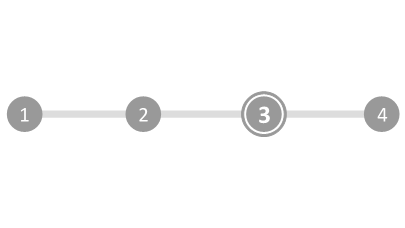
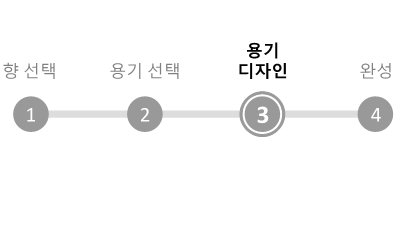
Feat: 향수 제작 페이지 기능 추가
1. step확인 이미지 변경
2. custom_perfume_note.js 코드 리펙토링
3. 향수 상세페이지에서 향 데이터,향수이름 url로 전송
4. 향수 제작페이지(향) url에 담긴 향 데이터 가져와서 띄워주기
5. 향수 제작페이지(용기) 에러처리 조건 변경(세션스토리지의 길이 ->
   세션스토리지에 향 존재여부)

diff --git a/static/js/custom_perfume_note.js b/static/js/custom_perfume_note.js
@@ -21,83 +21,42 @@ async function handleCategory() {
     }).then(result => {
         const response_json = result;
 
-        
-        document.getElementById("tab_menu_01").innerText = response_json['note_category'][0]['kor_name']
-        document.getElementById("tab_menu_02").innerText = response_json['note_category'][1]['kor_name']
-        document.getElementById("tab_menu_03").innerText = response_json['note_category'][2]['kor_name']
-        document.getElementById("tab_menu_04").innerText = response_json['note_category'][3]['kor_name']
-        document.getElementById("tab_menu_05").innerText = response_json['note_category'][4]['kor_name']
-        document.getElementById("tab_menu_06").innerText = response_json['note_category'][5]['kor_name']
-        document.getElementById("tab_menu_07").innerText = response_json['note_category'][6]['kor_name']
-        document.getElementById("tab_menu_08").innerText = response_json['note_category'][7]['kor_name']
-        document.getElementById("tab_menu_09").innerText = response_json['note_category'][8]['kor_name']
-        document.getElementById("tab_menu_010").innerText = response_json['note_category'][9]['kor_name']
-        document.getElementById("tab_menu_011").innerText = response_json['note_category'][10]['kor_name']
-        document.getElementById("tab_menu_012").innerText = response_json['note_category'][11]['kor_name']
-        
-        
-        var category1 = response_json['notes'].filter(function(item){
-            return item.note_category == '1'
-        });
-        var category2 = response_json['notes'].filter(function(item){
-            return item.note_category == '2'
-        });
-        var category3 = response_json['notes'].filter(function(item){
-            return item.note_category == '3'
-        });
-        var category4 = response_json['notes'].filter(function(item){
-            return item.note_category == '4'
-        });
-        var category5 = response_json['notes'].filter(function(item){
-            return item.note_category == '5'
-        });
-        var category6 = response_json['notes'].filter(function(item){
-            return item.note_category == '6'
-        });
-        var category7 = response_json['notes'].filter(function(item){
-            return item.note_category == '7'
-        });
-        var category8 = response_json['notes'].filter(function(item){
-            return item.note_category == '8'
-        });
-        var category9 = response_json['notes'].filter(function(item){
-            return item.note_category == '9'
-        });
-        var category10 = response_json['notes'].filter(function(item){
-            return item.note_category == '10'
-        });
-        var category11 = response_json['notes'].filter(function(item){
-            return item.note_category == '11'
-        });
-        var category12 = response_json['notes'].filter(function(item){
-            return item.note_category == '12'
-        });
+        // 비슷한 향수 만들기
+        if (location.href.split('?')[1] != null){
 
+            // url로 전송된 향 id값
+            var url_data = location.href.split('?')[1].split(',')
 
-        let note_list_1 = document.getElementById("tab_01").querySelector(".row")
-        append_note_list(category1,note_list_1)
-        let note_list_2 = document.getElementById("tab_02").querySelector(".row")
-        append_note_list(category2,note_list_2)
-        let note_list_3 = document.getElementById("tab_03").querySelector(".row")
-        append_note_list(category3,note_list_3)
-        let note_list_4 = document.getElementById("tab_04").querySelector(".row")
-        append_note_list(category4,note_list_4)
-        let note_list_5 = document.getElementById("tab_05").querySelector(".row")
-        append_note_list(category5,note_list_5)
-        let note_list_6 = document.getElementById("tab_06").querySelector(".row")
-        append_note_list(category6,note_list_6)
-        let note_list_7 = document.getElementById("tab_07").querySelector(".row")
-        append_note_list(category7,note_list_7)
-        let note_list_8 = document.getElementById("tab_08").querySelector(".row")
-        append_note_list(category8,note_list_8)
-        let note_list_9 = document.getElementById("tab_09").querySelector(".row")
-        append_note_list(category9,note_list_9)
-        let note_list_10 = document.getElementById("tab_010").querySelector(".row")
-        append_note_list(category10,note_list_10)
-        let note_list_11 = document.getElementById("tab_011").querySelector(".row")
-        append_note_list(category11,note_list_11)
-        let note_list_12 = document.getElementById("tab_012").querySelector(".row")
-        append_note_list(category12,note_list_12)
+            var note_data = response_json['notes'].filter(function(item){
+                return item
+            });
+
+            // url로 전송된 추천 향수 이름
+            document.getElementById('recommend_name').innerText = location.href.split('?')[2].replace(/%20/g, ' ')+' 향수와 같은 향';
+
+            // 추천 향 리스트
+            let recommend_note_list = document.getElementById("card")
+            append_recommend_note_list(note_data, url_data, recommend_note_list)
+            
+        }
+
+        // 카테고리
+        for(let i = 0; i<12; i++){
+            document.getElementById(`tab_menu_0${i+1}`).innerText = response_json['note_category'][i]['kor_name']
+        }
+
+        // 카테고리 별 향 나누기
+        for(let i = 1; i<13; i++){
+            window['category'+i] = response_json['notes'].filter(function(item){
+                return item.note_category == i
+            });
+        }
+
+        // 카테고리 탭 선택시 향 띄우기
+        for(let i = 1; i<13; i++){
+            window['note_list_'+i] = document.getElementById(`tab_0${i}`).querySelector(".row")
+            append_note_list(window['category'+i],window['note_list_'+i])
+        };
         
         // 향1 이미지
         $.each(response_json['notes'],function(idx,row){
@@ -132,6 +91,34 @@ async function handleCategory() {
     
     }).catch(error => {
         console.warn(error.message)
+    });
+}
+
+// 추천 향 리스트
+function append_recommend_note_list(dataset, url_data, element) {
+    var recommend = []
+    for (let i = 0; i < 973; i++) {
+        for (let j = 0; j < url_data.length; j++) {
+            if (String(dataset[i]['id']) == url_data[j]) {
+                recommend.push(dataset[i])
+            }
+        }
+    }
+    element.innerHTML = '';
+    recommend.forEach(data => {
+        let new_item = document.createElement('div');
+        new_item.className = 'card';
+        new_item.innerHTML = `
+            <div class="image">
+                <img aria-hidden="false" draggable="false" loading="lazy" src="${data['image']}">
+            </div>
+            <div class="title">
+                <div class="name">${data['kor_name']}</div>
+                <div class="keyword">#상큼함</div>
+            </div>
+            <button class="circle_pick" id="${data['id']}" onclick="handlePick(this.id)">+
+        `;
+        element.append(new_item);
     });
 }
 

diff --git a/custom_perfume_note.html b/custom_perfume_note.html
@@ -68,22 +68,32 @@
             <div class="swiper main_banner">
                 <!-- Additional required wrapper -->
                 <div class="swiper-wrapper">
-                  <!-- Slides -->
+                    <!-- Slides -->
                     <div class="swiper-slide">
                         <img src="/static/images/step_1.png">
                         <h1>Pick Your Fragrance!</h1>
                         <p>3가지 향을 선택하여 나만의 향수를 만들어 보세요</p>
                     </div>
                     <div class="swiper-slide2">
-                        <div class="circle"><div class="circle_plus" id="note01">+</div></div>
-                        <div class="circle"><div class="circle_plus" id="note02">+</div></div>
-                        <div class="circle"><div class="circle_plus" id="note03">+</div></div>
+                        <div class="circle">
+                            <div class="circle_plus" id="note01">+</div>
+                        </div>
+                        <div class="circle">
+                            <div class="circle_plus" id="note02">+</div>
+                        </div>
+                        <div class="circle">
+                            <div class="circle_plus" id="note03">+</div>
+                        </div>
                         <p></p>
-                        <button class="next_button" id="next_button" onclick="handleNext()" data-bs-toggle="modal" data-bs-target="#exampleModal">나만의 향수 만들기</button>
+                        <button class="next_button" id="next_button" onclick="handleNext()" data-bs-toggle="modal"
+                            data-bs-target="#exampleModal">나만의 향수 만들기</button>
                     </div>
-                    
+                    <div class="recommend_name" id="recommend_name">
+                    </div>
+                    <div class="swiper-slide3" id="card">
+                    </div>
                 </div>
-              </div>
+            </div>
         </section>
         <section style="margin:auto; width:1400px;">
             <ul class="category">

diff --git a/static/css/custom_perfume_note.css b/static/css/custom_perfume_note.css
@@ -25,16 +25,10 @@
     align-content: center;
     flex-wrap: wrap;
     text-align: center;
-    
-    /* position: sticky;
-    top: 10vh;
-    left: 60vh;
-    opacity: 0.9;
-    backdrop-filter: blur(30px); */
 
 }
 .swiper.main_banner .swiper-slide img{
-    width: 250px;
+    width: 300px;
 }
 .swiper.main_banner .swiper-slide h1{
     width: 100%;
@@ -90,6 +84,60 @@
     color: #ffffff;
     font-size: 13px;
 }
+.swiper.main_banner .recommend_name{
+    display: flex;
+    width: 80%;
+    margin: 2vh auto 0 auto;
+    font-size: 25px;
+}
+.swiper.main_banner .swiper-slide3{
+    display: flex;
+    margin: 2vh auto 0 auto;
+    width: 80%;
+    overflow-x: scroll;
+}
+.swiper.main_banner .swiper-slide3::-webkit-scrollbar {
+    display: none;
+}
+.swiper.main_banner .swiper-slide3 .card{
+    display: flex;
+    flex-direction: row;
+    align-items: center;
+    min-width: 200px;
+    height: 80px;
+    border-radius: 0;
+    border-color: #999;
+    margin: 0 5px 0 5px;
+}
+.swiper.main_banner .swiper-slide3 .card .image{
+    display: flex;
+    align-items: center;
+    justify-content: center;
+
+    width: 50px;
+    height: 50px;
+    margin: 0 5px 0 5px;
+}
+.swiper.main_banner .swiper-slide3 .card .image img{
+    width: 50px;
+    height: 50px;
+}
+.swiper.main_banner .swiper-slide3 .card .title{
+
+    width: 100px;
+    height: 50px;
+}
+.swiper.main_banner .swiper-slide3 .card .title .name{
+    font-size: 18px;
+}
+.swiper.main_banner .swiper-slide3 .card .title .keyword{
+    margin-top: 10px;
+    font-size: 10px;
+    color: #999;
+}
+.swiper.main_banner .swiper-slide3 .card .circle_pick{
+    text-align: center;
+}
 .title{
     font-size: 15px;
     word-break: normal;
@@ -118,7 +166,7 @@
 
 /* 카테고리 탭 */
 .category{
-    margin-top: 15vh;
+    margin-top: 5vh;
     display: flex;
     flex-direction: row;
     justify-content: space-between;

diff --git a/static/js/perfume.js b/static/js/perfume.js
@@ -30,9 +30,37 @@ async function handlePerfumeInfo(){
     })
     .then(result => {
         const response_json = result;
+        const notes_id = []
+
         perfume_info(response_json);  // 1. 기본 향수제품정보
         perfume_detail_tab(response_json); // 2. 제품정보 탭
         perfume_review_tab(response_json); // 3. 리뷰 탭
+        
+        // 향 id값 리스트에 담기
+        for(let i = 0; i<response_json['top_notes'].length; i++){
+            if(response_json['top_notes'][i]['id']<=973){
+                notes_id.push(response_json['top_notes'][i]['id'])
+            } 
+        }
+        for(let i = 0; i<response_json['heart_notes'].length; i++){
+            if(response_json['heart_notes'][i]['id']<=973){
+                notes_id.push(response_json['heart_notes'][i]['id'])
+            } 
+        }
+        for(let i = 0; i<response_json['base_notes'].length; i++){
+            if(response_json['base_notes'][i]['id']<=973){
+                notes_id.push(response_json['base_notes'][i]['id'])
+            } 
+        }
+        for(let i = 0; i<response_json['none_notes'].length; i++){
+            if(response_json['none_notes'][i]['id']<=973){
+                notes_id.push(response_json['none_notes'][i]['id'])
+            } 
+        }
+        // url로 향 id값 전송
+        document.getElementById("custom_perfume").addEventListener('click', () => {
+            location.href = `custom_perfume_note.html?${notes_id}?${response_json['title']}`;
+        })
     })
 }
 

diff --git a/perfume.html b/perfume.html
@@ -109,8 +109,10 @@
                                     <a class="btn btn_default btn_create_review w-100" href="/create_review.html">
                                         리뷰 작성하기
                                     </a>
+                                    <a class="btn btn_default btn_create_custom_perfume" id="custom_perfume">
+                                        비슷한 향수 만들기
+                                    </a>
                                 </div>
-                                
                             </div>
                         </div>
                     </div>

diff --git a/static/js/custom_perfume_package.js b/static/js/custom_perfume_package.js
@@ -4,7 +4,7 @@ document.addEventListener("DOMContentLoaded", function () {
 
 // 용기 카테고리 , 선택한 용기 띄우기
 async function handleCategory() {
-    if(sessionStorage.length==1){
+    if(JSON.parse(sessionStorage.getItem("note01"))==null&&JSON.parse(sessionStorage.getItem("note02"))==null&&JSON.parse(sessionStorage.getItem("note03"))==null){
         alert("향을 선택하셔야 됩니다!")
         location.href="/custom_perfume_note.html"
     }else{

diff --git a/static/css/custom_perfume_package.css b/static/css/custom_perfume_package.css
@@ -25,16 +25,10 @@
     align-content: center;
     flex-wrap: wrap;
     text-align: center;
-    
-    /* position: sticky;
-    top: 10vh;
-    left: 60vh;
-    opacity: 0.9;
-    backdrop-filter: blur(30px); */
 
 }
 .swiper.main_banner .swiper-slide img{
-    width: 250px;
+    width: 300px;
 }
 .swiper.main_banner .swiper-slide h1{
     width: 100%;

diff --git a/static/css/perfume.css b/static/css/perfume.css
@@ -65,7 +65,9 @@ hr{
     color: var(--main-red);
     cursor: pointer;
 }
-
+.sec_perfume_detail .btn_create_group .btn_create_custom_perfume{
+    margin-left: 10px;
+}
 
 /* ******** */
 /* tab_menu */

diff --git a/static/css/custom_perfume_complete.css b/static/css/custom_perfume_complete.css
@@ -15,7 +15,7 @@
 
 }
 .swiper.main_banner .swiper-slide img{
-    width: 250px;
+    width: 300px;
 }
 .swiper.main_banner .swiper-slide h1{
     width: 100%;

diff --git a/static/css/custom_perfume_logo.css b/static/css/custom_perfume_logo.css
@@ -15,7 +15,7 @@
 
 }
 .swiper.main_banner .swiper-slide img{
-    width: 250px;
+    width: 300px;
 }
 .swiper.main_banner .swiper-slide h1{
     width: 100%;
